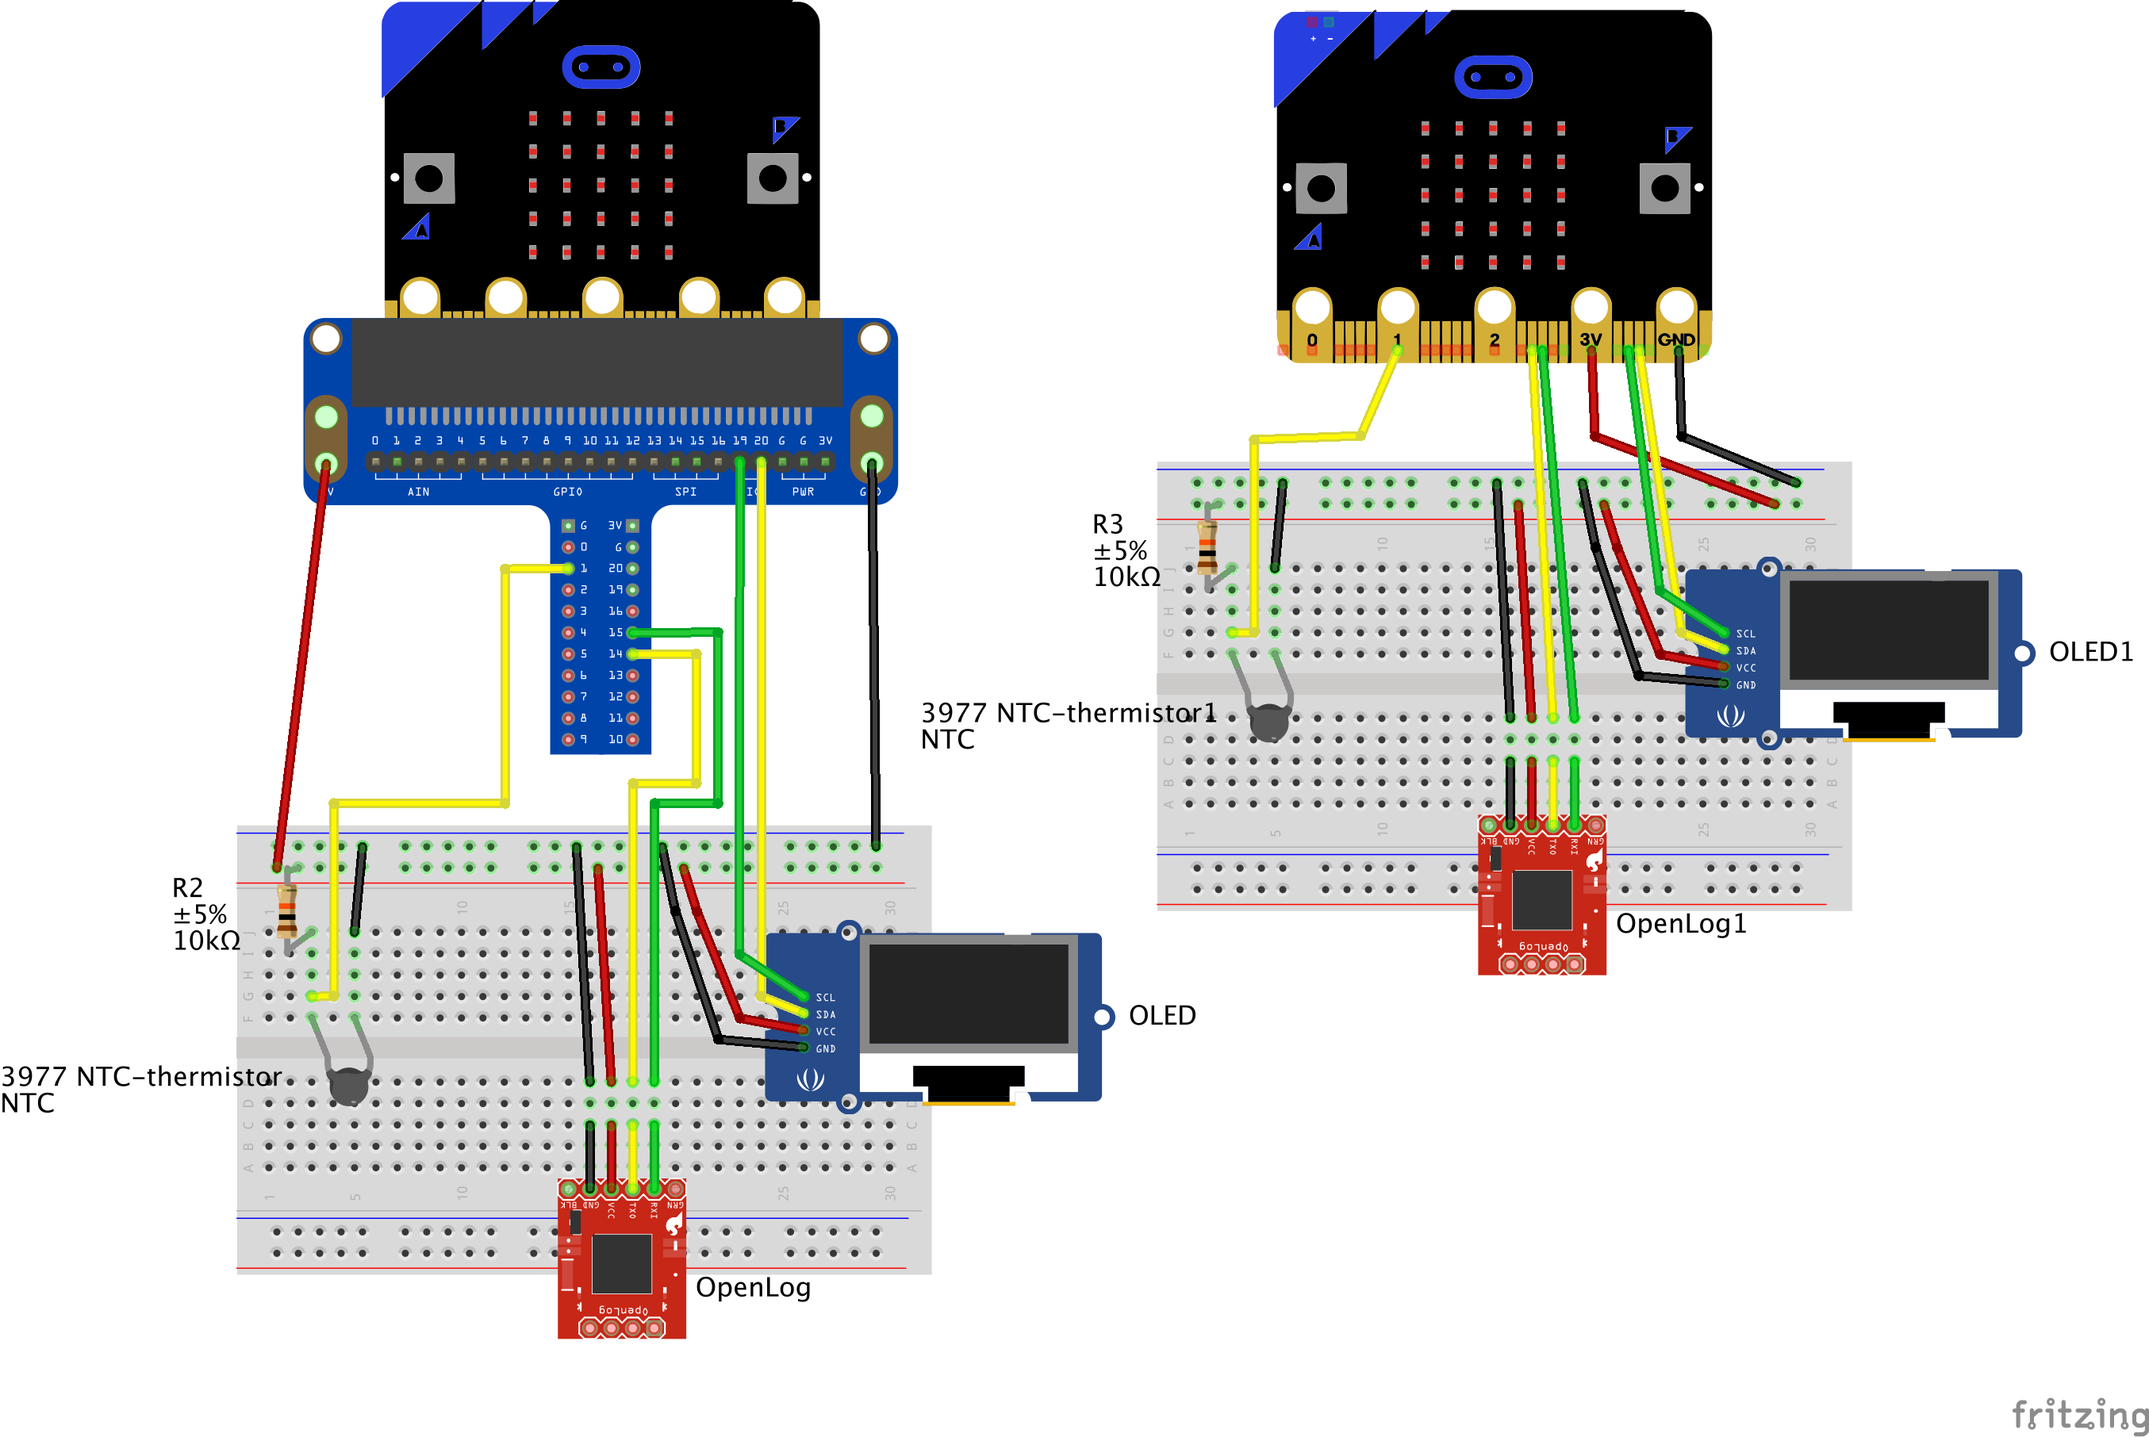
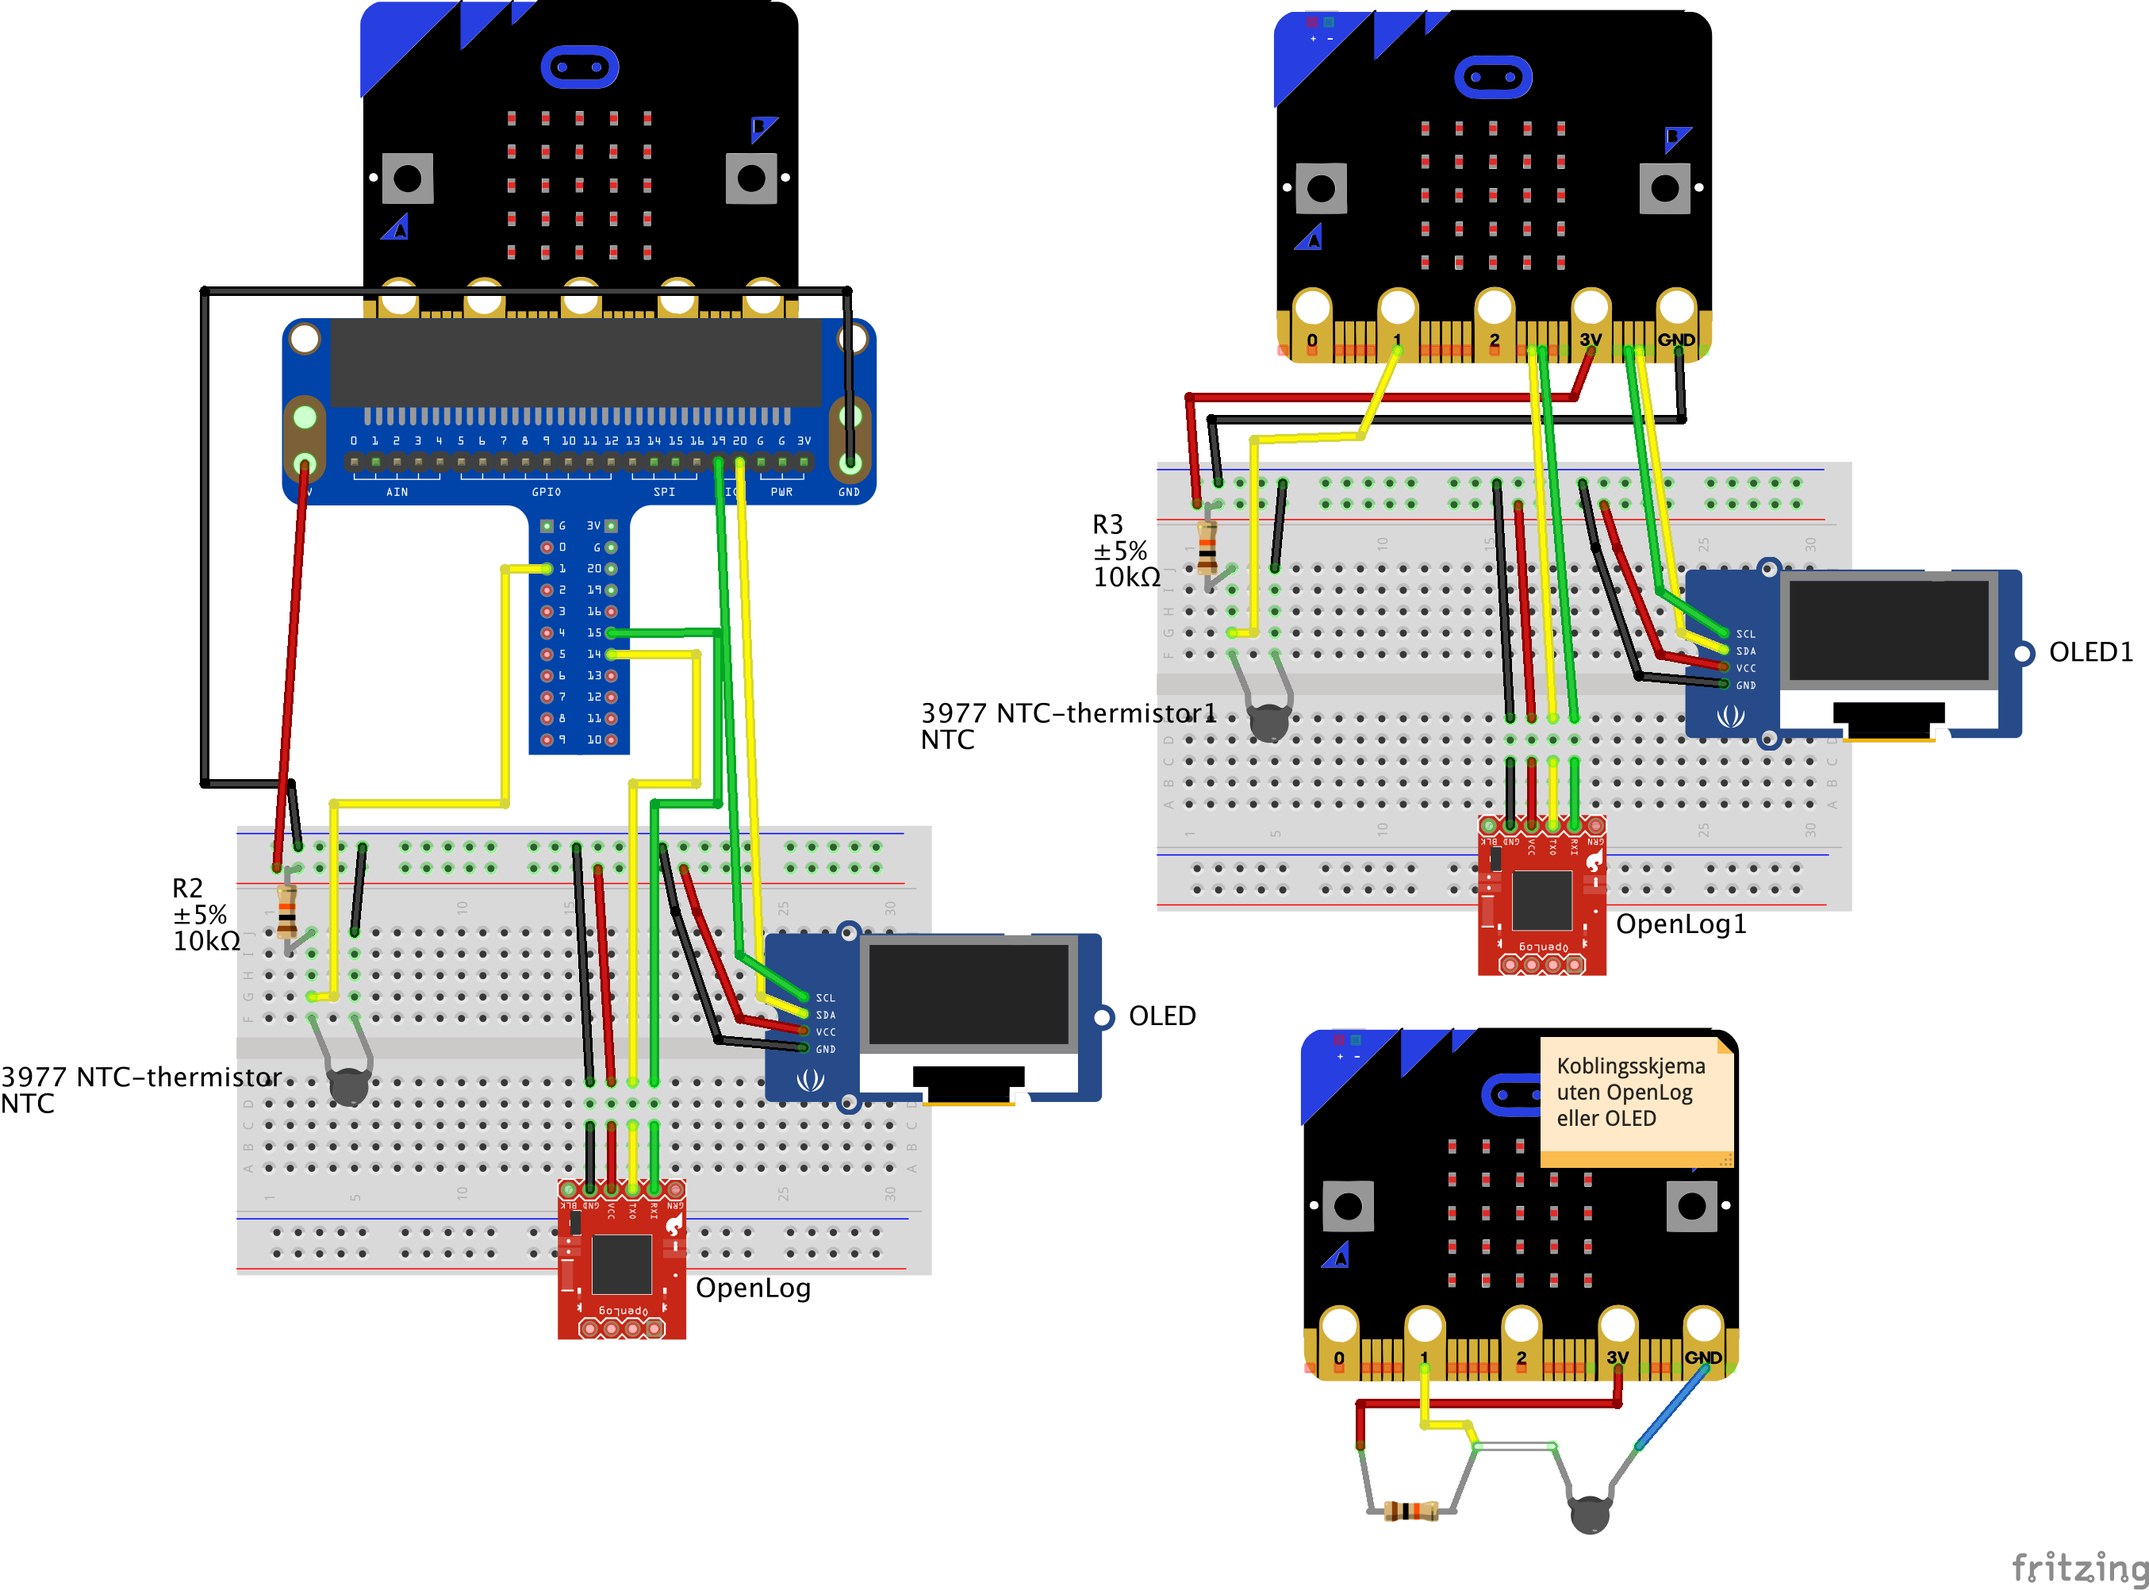
new documentation, schematics and simplified scripts

diff --git a/main-internal-recording.py b/main-internal-recording.py
@@ -3,26 +3,26 @@ import utime
 import math
 import os
 
-internt_filnavn = "data" #første del av filnavnet
-sleeptime = 9380 # det tar omtrent 620 ms å gjennomføre syklusen
-                 # slik at en sleeptime på 380 vil gi omtrent 1 sek 
-                 # mellom hver måling. OBS! Micro:bit har kun plass til
-                 # omtrent 2200 måleverdier i sitt minne i tillegg til dette
-                 # programmet. Verdi i millisekunder
+internt_filnavn = "data"    # første del av filnavnet
+sleeptime = 9380    # det tar omtrent 620 ms å gjennomføre syklusen
+                    # slik at en sleeptime på 380 vil gi omtrent 1 sek
+                    # mellom hver måling. OBS! Micro:bit har kun plass til
+                    # omtrent 2200 måleverdier i sitt minne i tillegg til dette
+                    # programmet. Verdi i millisekunder
 
-R_ref = 10e3 #10 kOhm resistans kobles i serie med NTC
-Pin_NTC = pin1 #pin for NTC sensor
+R_ref = 10e3    # 10 kOhm resistans kobles i serie med NTC
+Pin_NTC = pin1  # pin for NTC sensor
 
 # Steinhart og Hart sin formel for temperatur fra NTC er gitt ved
 # T = (A + B * ln(R/R_ref) + C * ln(R/R_ref)^2 + D * ln(R/R_ref)^3
 # Verdiene nedenfor gjelder for B_25/85 = 3977
 
-A = 3.354016e-3 
+A = 3.354016e-3
 B = 2.569850e-4
 C = 2.620131e-6
 D = 6.383091e-8
 
-row = "" 
+row = ""
 icon = Image.ASLEEP
 filnummer = 0
 
@@ -35,11 +35,11 @@ def get_centigrade_temp():
     return temp
 
 while True:
-    if button_a.is_pressed() and not button_b.is_pressed():
+    if button_a.is_pressed():
         # åpner filen spesifisert i internt_filnavn og skriver til den
         icon = Image.NO
         success = False
-        while success == False:
+        while not success:
             # finner neste ledige filnavn
             try:
                 # prøver å åpne filnavnet med gjeldende filnummer
@@ -49,13 +49,14 @@ while True:
                 filnummer = filnummer + 1
             except OSError:
                 # hvis filen ikke finnes så avslutter vi letingen
-                success = True 
-                display.scroll("Filnavn: " + internt_filnavn + str(filnummer) + ".csv")
+                success = True
+                display.scroll("Filnavn: " + internt_filnavn + \
+                    str(filnummer) + ".csv")
 
         with open(internt_filnavn + str(filnummer) + ".csv", 'w') as datafile:
             # åpner den ledige filen for skriving
             datafile.write("Time; Temp (NTC)\n")
-            while not button_b.is_pressed():
+            while not button_b.was_pressed():
                 # hent temperatur og tidsverdier og skriv til filen
                 temp = round(get_centigrade_temp(),2)
                 time = round(utime.ticks_ms()/1000,1)
@@ -84,5 +85,5 @@ while True:
                     filnummer = filnummer + 1
                 except OSError:
                     # hvis filen ikke finnes så avslutter vi letingen
-                    success = True 
+                    success = True
                     display.scroll("Slettet alt")

diff --git a/main-openlog-oled.py b/main-openlog-oled.py
@@ -2,8 +2,11 @@ from microbit import *
 import utime
 import math
 
-OpenLog = True
 Use_OLED = True
+sleeptime = 9500  # ekstra tid i millisekunder mellom hver måling
+# skriptet bruker omtrent 0,5 sekunder per måling i 
+# utgangspunktet (med OLED aktivert) slik at sleeptime = 1000
+# vil gi omtrent 2,5 sekunder mellom målepunktene
 
 R_ref = 10e3 #10 kOhm resistans
 Pin_NTC = pin1 #pin for NTC sensor
@@ -32,50 +35,39 @@ def get_centigrade_temp():
     temp = 1/(A + B * log_NTC + C * log_NTC ** 2 + D * log_NTC ** 3)-273.15
     return temp
 
-def writing_to(destination):
-    clear_oled()
-    add_text(0,0,"Skriver til:")
-    add_text(0,1,destination)
-    sleep(2000)
-    clear_oled()
-    return
-
-if Use_OLED == True:
+if Use_OLED:
     from ssd1306 import initialize, clear_oled
     from ssd1306_text import add_text
     initialize()
     clear_oled()
 
 while True:
-    if button_a.is_pressed() and not button_b.is_pressed():
+    if button_a.is_pressed():
         # opprette tilkobling til OpenLog og skrive overskriftsrad
         uart.init(baudrate=9600, tx=Pin_TX, rx=Pin_RX)
         uart.write("Time;Temp (NTC)\n")
         icon = Image.NO
-        while not button_b.is_pressed():
+        while not button_b.was_pressed():
             # finner temperatur og tid og skriver verdiene som en rad
             # til logfila i OpenLog
             temp = round(get_centigrade_temp(),2)
             time = round(utime.ticks_ms()/1000,1)
             row = str(time) + ";" + str(temp)
             uart.write(row + "\n")
-            if Use_OLED == True:
+            sleep(200)
+            if Use_OLED:
                 clear_oled()
                 add_text(0,1,row)
-            display.show(icon, delay=400, clear=True)
+                sleep(sleeptime)
+            else:
+                display.scroll(row)
+                sleep(max(sleeptime-8000,0))
+
         # avslutter tilkoblinga til openlog og gjenoppretter mulighet for 
         # tilkobling til PC
         uart.init(baudrate=115200)
         icon = Image.YES
-        if Use_OLED == True:
+        if Use_OLED:
             clear_oled()
 
-    elif button_a.is_pressed() and button_b.is_pressed():
-        # bytt lagringsmodus hvis begge knappene blir trykket ned
-        OpenLog = False
-        icon = Image.ARROW_E
-        display.show(icon, delay=400, clear=True)
-        if Use_OLED == True:
-            writing_to("Internminne")
-
-        display.show(icon, delay=400, clear=True)
+    display.show(icon, delay=400, clear=True)

diff --git a/README.md b/README.md
@@ -1,32 +1,70 @@
-Temperaturmåling med micro:bit og NTC sensor
-============================================
+# Temperaturmåling med micro:bit og NTC sensor
 
-Dette skriptet lar deg måle og registrere temperaturer med en NTC-sensor og microbit. Dataene kan lagres direkte i filsystemet til micro:biten eller på et eksternt minnekort ved hjelp av en SparkFun OpenLog.
+I denne repoen finner du to skript lar deg måle og registrere temperaturer med en NTC-sensor og micro:bit. Dataene kan lagres direkte i filsystemet til micro:biten eller på et eksternt minnekort ved hjelp av en [SparkFun OpenLog](https://learn.sparkfun.com/tutorials/openlog-hookup-guide). På grunn av plassbegrensninger på micro:biten er du nødt til å velge om du ønsker å bruke skriptet som skriver til micro:biten eller til minnekort.
 
-Skriptet er tilpasset NTC-termistoren som ble levert til CanSat 2018 (se <https://www.narom.no/undervisningsressurser/the-cansat-book/v3/> )
+Skriptene er tilpasset NTC-termistoren som ble levert til CanSat 2018 (se <https://www.narom.no/undervisningsressurser/the-cansat-book/v3/> )
 
-Oppsett
-=======
+## Oppsett for intern lagring på microbit
 
-Oppkobling
-----------
+### Oppkobling for intern lagring på micro:bit
+
+![Fritzing schematic](microbit-ntc-schem.png)
+
+Koble opp kretsen slik koblingsskjemaet over viser (du kan også se det i nedre høyre hjørne av figuren lenger nede).
+
+### Oppsett av skript for intern lagring
+
+Last ned skriptet `main-internal-recording.py`. Dette skriver data direkte til minnet på micro:biten. Hvis jeg har regnet riktig så er det plass til omtrent 2200 måleverdier i micro:biten sitt lagringssystem. Åpne skriptet i [Mu](https://codewith.mu/en/) og gjør nødvendige tilpasninger:
+
+- sleeptime er intervallet mellom hver måling i millisekunder
+- filnavn er filnavnet til fila med måleresultater på micro:biten
+- R_ref er verdien (i Ohm) på resistansen som kobles i serie med NTC-sensoren
+- Pin_NTC er satt til pin1. Bruk denne standardverdien hvis du måler spenningen over NTCen på pin1 på micro:biten.
+- A, B, C og D er variabler som du velger ut fra hvilken type NTC du har. Standardverdiene er tilpasset NTCen som ble levert i [CanSat kitet i 2018](https://www.narom.no/undervisningsressurser/the-cansat-book/v3/). Databladet for denne finner du [her](https://www.vishay.com/docs/29049/ntcle100.pdf). Standardverdiene er hentet fra side 4, hvor du finner verdiene A_1, B_1, C_1 og D_1 tilhørende varianten med B_(25/85) = 3977.
+
+Overfør skriptet til micro:biten ved å trykke på `Flash`-knappen i Mu. 
+
+### Bruk ved intern lagring
+
+Hold inne `a`-knappen for å starte dataloggingen. Displayet viser hvilket filnavn dataene skrives til. Displayet viser deretter en avrundet temperaturmåling i celsius for hver måling. Avslutt målingen ved å trykke på `b`-knappen. Displayet viser en hake når dataloggingen er ferdig.
+
+Du kan slette alle de innhentede dataene ved å riste på micro:biten til den viser et spøkelse på displayet. Deretter holder du inne begge knappene fram til displayet gir beskjed om at alt er slettet.
+
+### Overføre måleresultater til PC
+
+Koble micro:bit til PCen og åpne [Mu](https://codewith.mu/en/). Trykk på `Files` og dra over datafilene fra micro:biten til PCen. Datafilene er lagret som csv-filer som kan importeres til regnearkprogrammer som Microsoft Excel.
+
+## Oppsett for lagring til OpenLog
+
+### Oppkobling for lagring til OpenLog og bruk av OLED
+
 ![Fritzing breadboard circuit diagram](microbit-ntc-fritzing.png)
 
-Oppsett av variabler
---------------------
+Koble opp kretsen slik figuren viser. Det kan være lurt å sørge for at strømmen ikke har for lang vei NTCen og OpenLogen. Begge er ømfintlige for små spenningsvariasjoner. Jeg har opplevd bedre resultater ved å koble VCC-kontakten på OpenLog direkte til en av 3,3 V pinnene på micro:biten. 
 
-- OpenLog = True hvis du ønsker å bruke SparkFun openlog til å lagre data fra temperatursensoren. Dersom denne settes til False vil dataene lagres direkte på Microbiten som du kan hente ut ved å bruke verktøyet ufs (microfs) eller filer-verktøyet i Mu.
-- Use_OLED = True dersom du har en 0,96 tommers 128x64 OLED-skjerm som du ønsker å bruke til å overvåke dataloggingen. Dette kan være kjekt siden man ellers ikke vet hva micro:biten registrerer før man leser av datafilen i etterkant. Bruk av OLED krever at du laster ned modulene fra https://github.com/fizban99/microbit_ssd1306 (du trenger bare ssd1306.py og ssd1306_text.py). Last disse modulene over til microbiten din ved hjelp av filer-verktøyet i Mu eller ved hjelp av ufs (microfs).
+### Oppsett av skript for lagring på OpenLog
+
+Last ned skriptet `main-openlog-oled.py`. Dette skriver data direkte til et [microSD-minnekort](https://no.wikipedia.org/wiki/MicroSD). Minnekortet kan leses av med en minnekortleser koblet til PC/Mac eller nettbrett/smarttelefon. Dataene blir skrevet til minnekortet ved hjelp av en [OpenLog](https://learn.sparkfun.com/tutorials/openlog-hookup-guide)
+
+- Use_OLED = True dersom du har en 0,96 tommers 128x64 OLED-skjerm som du ønsker å bruke til å overvåke dataloggingen. Dette kan være kjekt siden en skjerm kan gi god informasjon om hva micro:biten registrer.  Bruk av OLED krever at du laster ned modulene fra https://github.com/fizban99/microbit_ssd1306 (du trenger bare ssd1306.py og ssd1306_text.py). Last disse modulene over til microbiten din ved hjelp av filer-verktøyet i Mu eller ved hjelp av [ufs (microfs)](https://microfs.readthedocs.io/en/latest/).
+- sleeptime er intervallet mellom hver måling i millisekunder. Hvis du ikke bruker en OLED-skjerm så bruker micro:biten lang tid (> 8 sekunder) på å vise tid og temperatur. Hvis du ønsker hyppigere målinger bør du endre skriptet slik at denne informasjonen ikke vises på displayet.
 - R_ref er verdien (i Ohm) på resistansen som kobles i serie med NTC-sensoren
-- Pin_NTC, TX og RX må korrespondere med riktige pins på microbiten
+- Pin_NTC er satt til pin1. Bruk denne standardverdien hvis du måler spenningen over NTCen på pin1 på micro:biten.
+- Pin_TX og Pin_RX må korrespondere med riktige pins på microbiten. Pin_TX på micro:bit kobles til RX1 på OpenLogen.
+- A, B, C og D er variabler som du velger ut fra hvilken type NTC du har. Standardverdiene er tilpasset NTCen som ble levert i [CanSat kitet i 2018](https://www.narom.no/undervisningsressurser/the-cansat-book/v3/). Databladet for denne finner du [her](https://www.vishay.com/docs/29049/ntcle100.pdf). Standardverdiene er hentet fra side 4, hvor du finner verdiene A_1, B_1, C_1 og D_1 tilhørende varianten med B_(25/85) = 3977.
 
-Bruk
-====
+Overfør skriptet til micro:biten ved å trykke på `Flash`-knappen i Mu og legg over filene `ssd1306.py` og `ssd1306_text.py` ved hjelp av `Files`-funksjonen i Mu.
 
-Micro:biten viser et sovende ansikt på LED-displayet når den ikke lagrer data. Under dataloggingen vil microbiten vise et kryss for å indikere at den er opptatt. Hvis LED-displayet viser en pil mot høyre er micro:biten i ferd med å bytte modus fra OpenLog til intern lagring eller vice versa.
+### Bruk
 
-Hold nede a-knappen for å starte datalogging. Slipp knappen når displayet viser et kryss.
+Jeg anbefaler å sette inn et microSD-kort i OpenLogen før du kobler til strøm. Det kan være lurt å koble OpenLog direkte til en av 3,3 V kontaktene på micro:biten (den krever en del strøm, og fungerer ofte ikke for meg når den koblet til strøm fra [breadboardet](https://en.wikipedia.org/wiki/Breadboard). Koble så en 5 V strømkilde til USB-kontakten på micro:biten. OpenLog krever minst 3,3 V, slik at 2 stk LR06 AA-batteri på 1,5 V ikke vil gi nok spenning.
 
-Hold nede b-knappen for å avbryte avslutte lagringen av data. Slipp knappen når displayet viser et sovende ansikt.
+Micro:biten viser et sovende ansikt på LED-displayet når den ikke lagrer data. Hold inne `a`-knappen for å starte dataloggingen. Tid og temperatur vises i displayet. Trykk `b`-knappen for å avslutte dataloggingen.
 
-Hold nede a- og b-knappen samtidig for å bytte output fra OpenLog til intern lagring eller vice versa. Slipp knappene så fort displayet viser en pil. 
+## Analysere data i Microsoft Excel
+
+Kopier dataene dine fra tekstfila eller .csv-fila til Microsoft Excel. Marker cellene med data og velg `Tekst til kolonner` fra `Data`-fanen. Se skjermbildet.
+
+![Excel skjermbilde](excel-screenshot.png)
+
+Du får nå opp en veiviser som går gjennom tre steg. I det første steget bekrefter du at dataene dine er adskilt med skilletegn. I neste steg markerer du at dataene er adskilt med semikolon. I trinn 3 av 3 er det viktig at du trykker `Avansert` og bytter ut desimalskilletegnet fra komma til punktum. Trykk fullfør, så skal dataene dine vises i hver sin kolonne.
